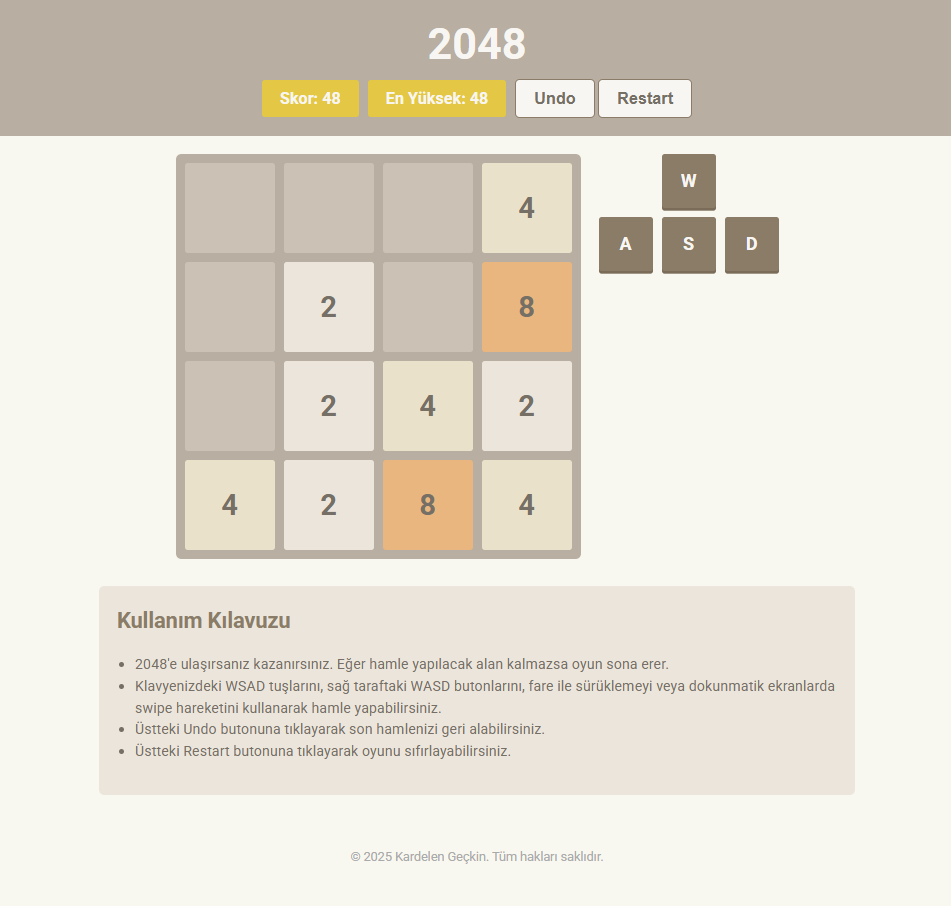
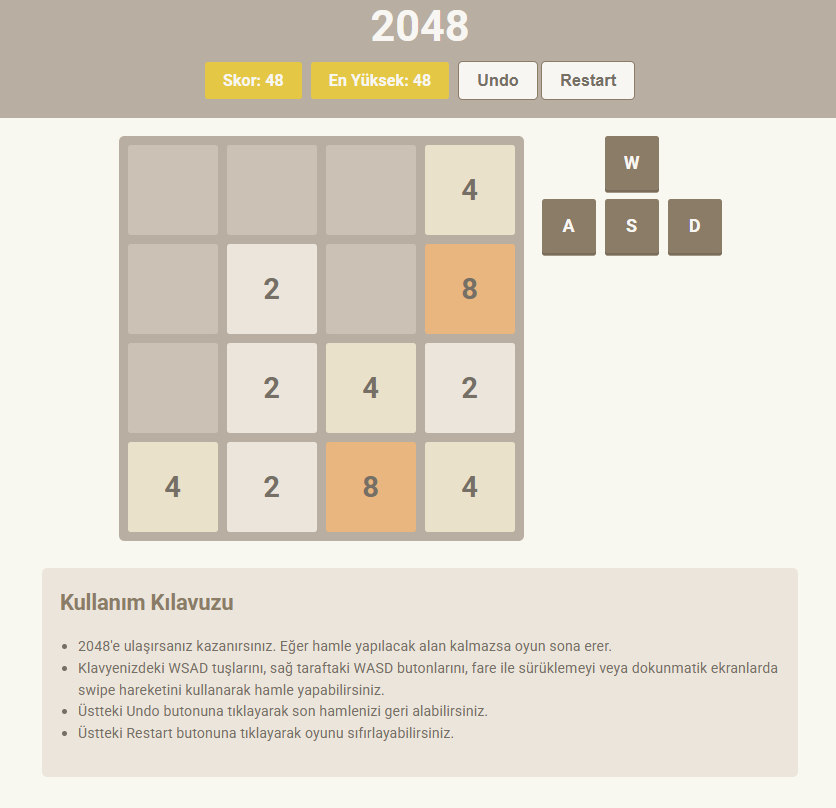
Remove footer

Changed region(s): [[0.0, 0.0, 1.0, 0.9592]]

diff --git a/templates/index.html b/templates/index.html
@@ -164,14 +164,6 @@
       opacity: 0.8;
       color: #ff0000;
     }
-    /* Footer */
-    footer {
-      text-align: center;
-      padding: 20px;
-      font-size: 14px;
-      color: #aaa;
-      margin-top: 40px;
-    }
   </style>
 </head>
 <body>
@@ -367,9 +359,5 @@
     }
   </script>
 
-  <!-- Footer -->
-  <footer>
-    &copy; 2025 Kardelen Geçkin. Tüm hakları saklıdır.
-  </footer>
 </body>
 </html>
